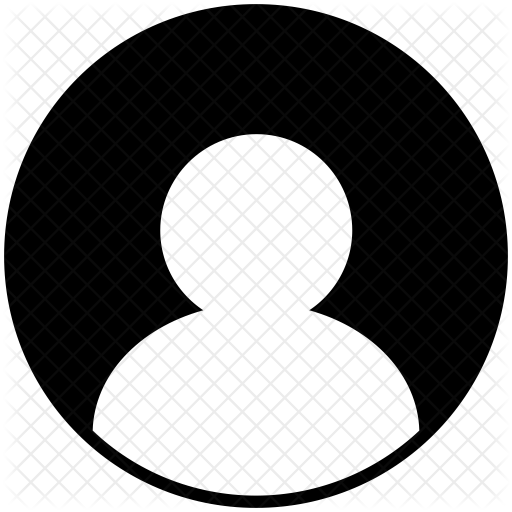
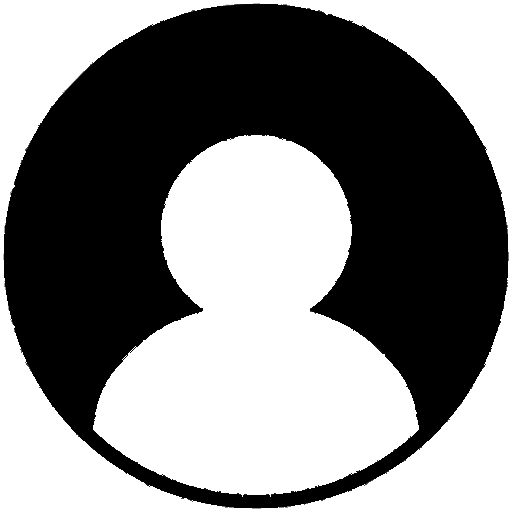
about page + pp bg removed

diff --git a/HTML/about.html b/HTML/about.html
@@ -82,5 +82,40 @@
         </div>
       </nav>
     </header>
+    <div class="aboutContent">
+      <div class="aboutText">
+        <h1>Welcome to Electronic Store</h1>
+        <p>
+          At [NAME] store, we offer a wide selection of top-quality electronic.
+        </p>
+        <p>
+          Our team of experts is committed to providing you with the latest and
+          most innovative technology at competitive prices. Whether you are a
+          student, a professional, or simply looking for the latest gadget, we
+          have everything you need to stay connected and productive.
+        </p>
+        <p>
+          At [NAME], we understand that electronic devices are an essential part
+          of your daily life. That's why we source only the best brands and
+          products that meet our rigorous standards for quality, performance,
+          and reliability. We strive to offer a range of products that cater to
+          different needs and budgets, so you can find the perfect device that
+          fits your lifestyle.
+        </p>
+        <p>
+          Our user-friendly website makes it easy for you to browse and compare
+          products, read reviews, and make an informed decision before making a
+          purchase. We also offer fast and reliable shipping options to ensure
+          that your order arrives at your doorstep in a timely manner.
+        </p>
+        <p>
+          We take pride in our exceptional customer service, and our dedicated
+          team is always ready to answer any questions or concerns you may have.
+          So, whether you are looking for a new smartphone, a powerful laptop,
+          or a versatile tablet, you can trust us to provide you with the best
+          shopping experience and top-quality products.
+        </p>
+      </div>
+    </div>
   </body>
 </html>

diff --git a/CSS/main.css b/CSS/main.css
@@ -101,3 +101,15 @@ p{
 .fa-solid{
   margin-left: 24px;
 }
+
+.aboutText{
+  display: flex;
+  flex-direction: column;
+  position: absolute; /*important to set to absolute for sublink to work*/
+  z-index: -2;
+  padding: 20px 30px 0px;
+}
+
+.aboutText p{
+  margin: 10px 0;
+}
